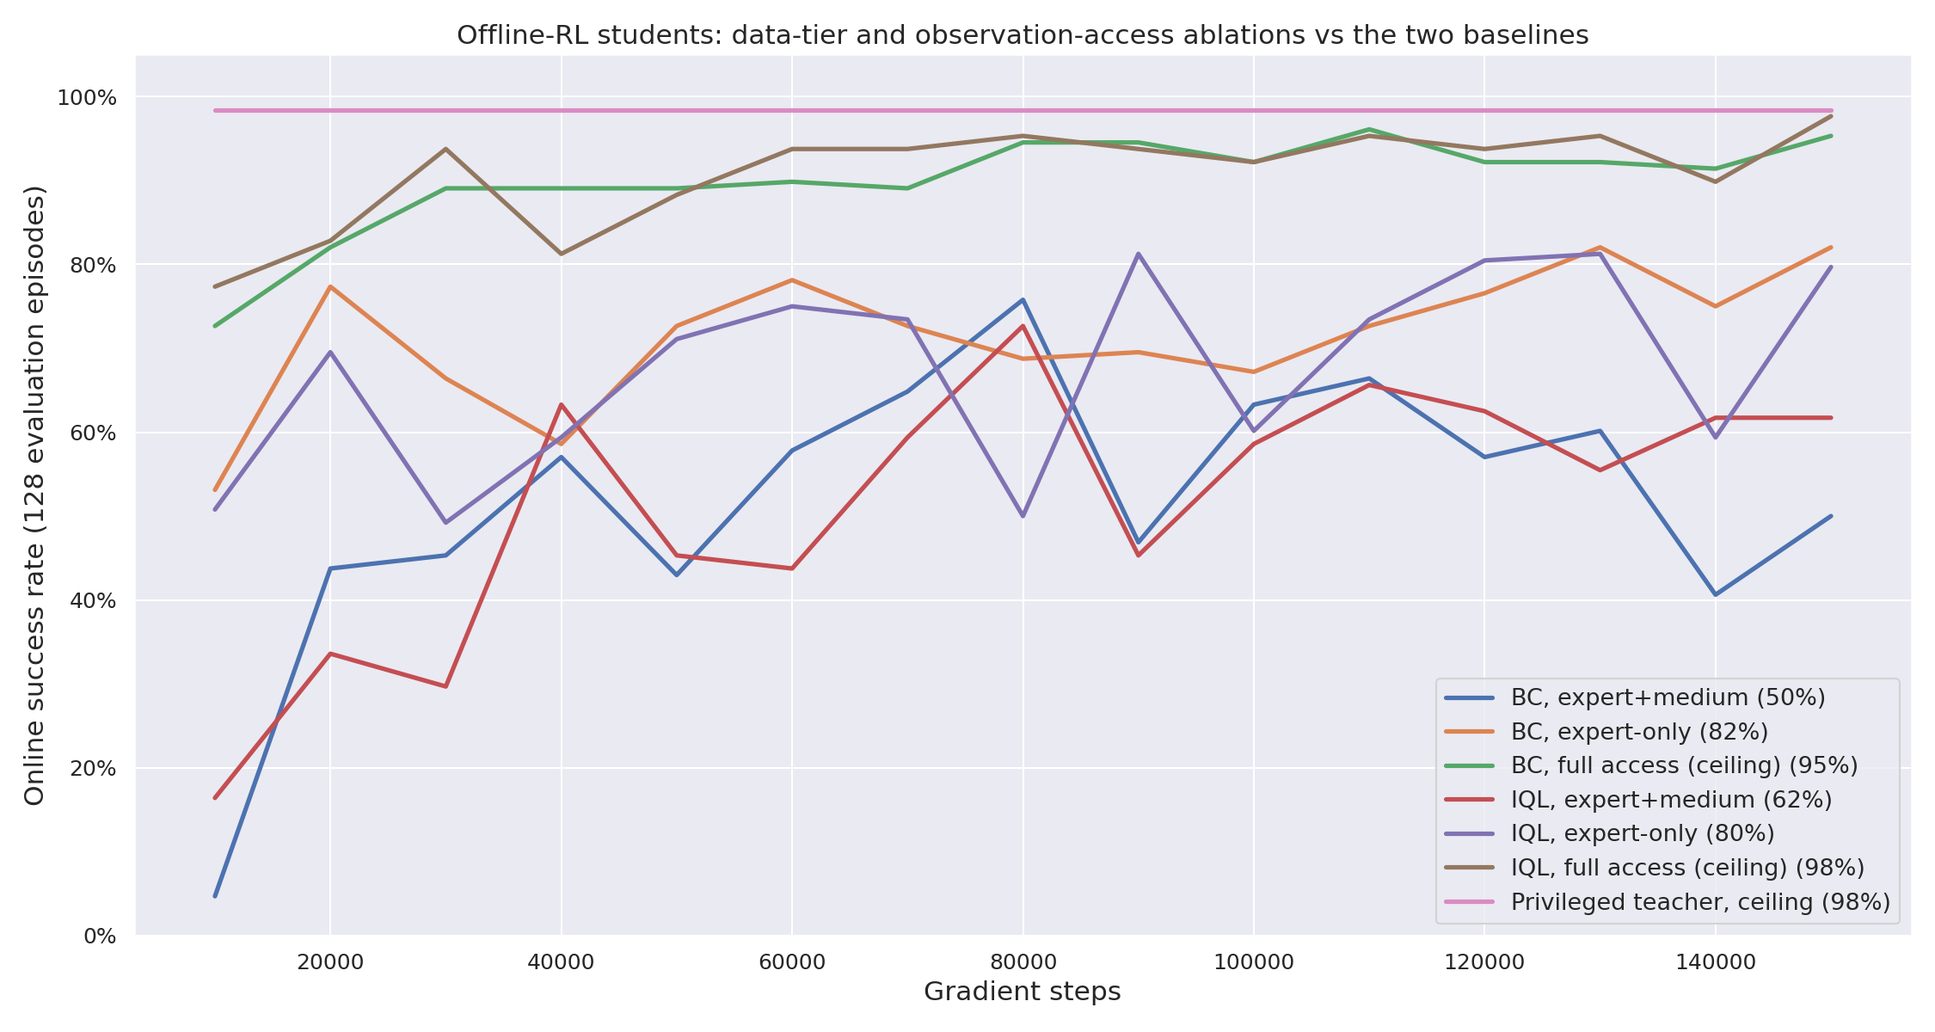
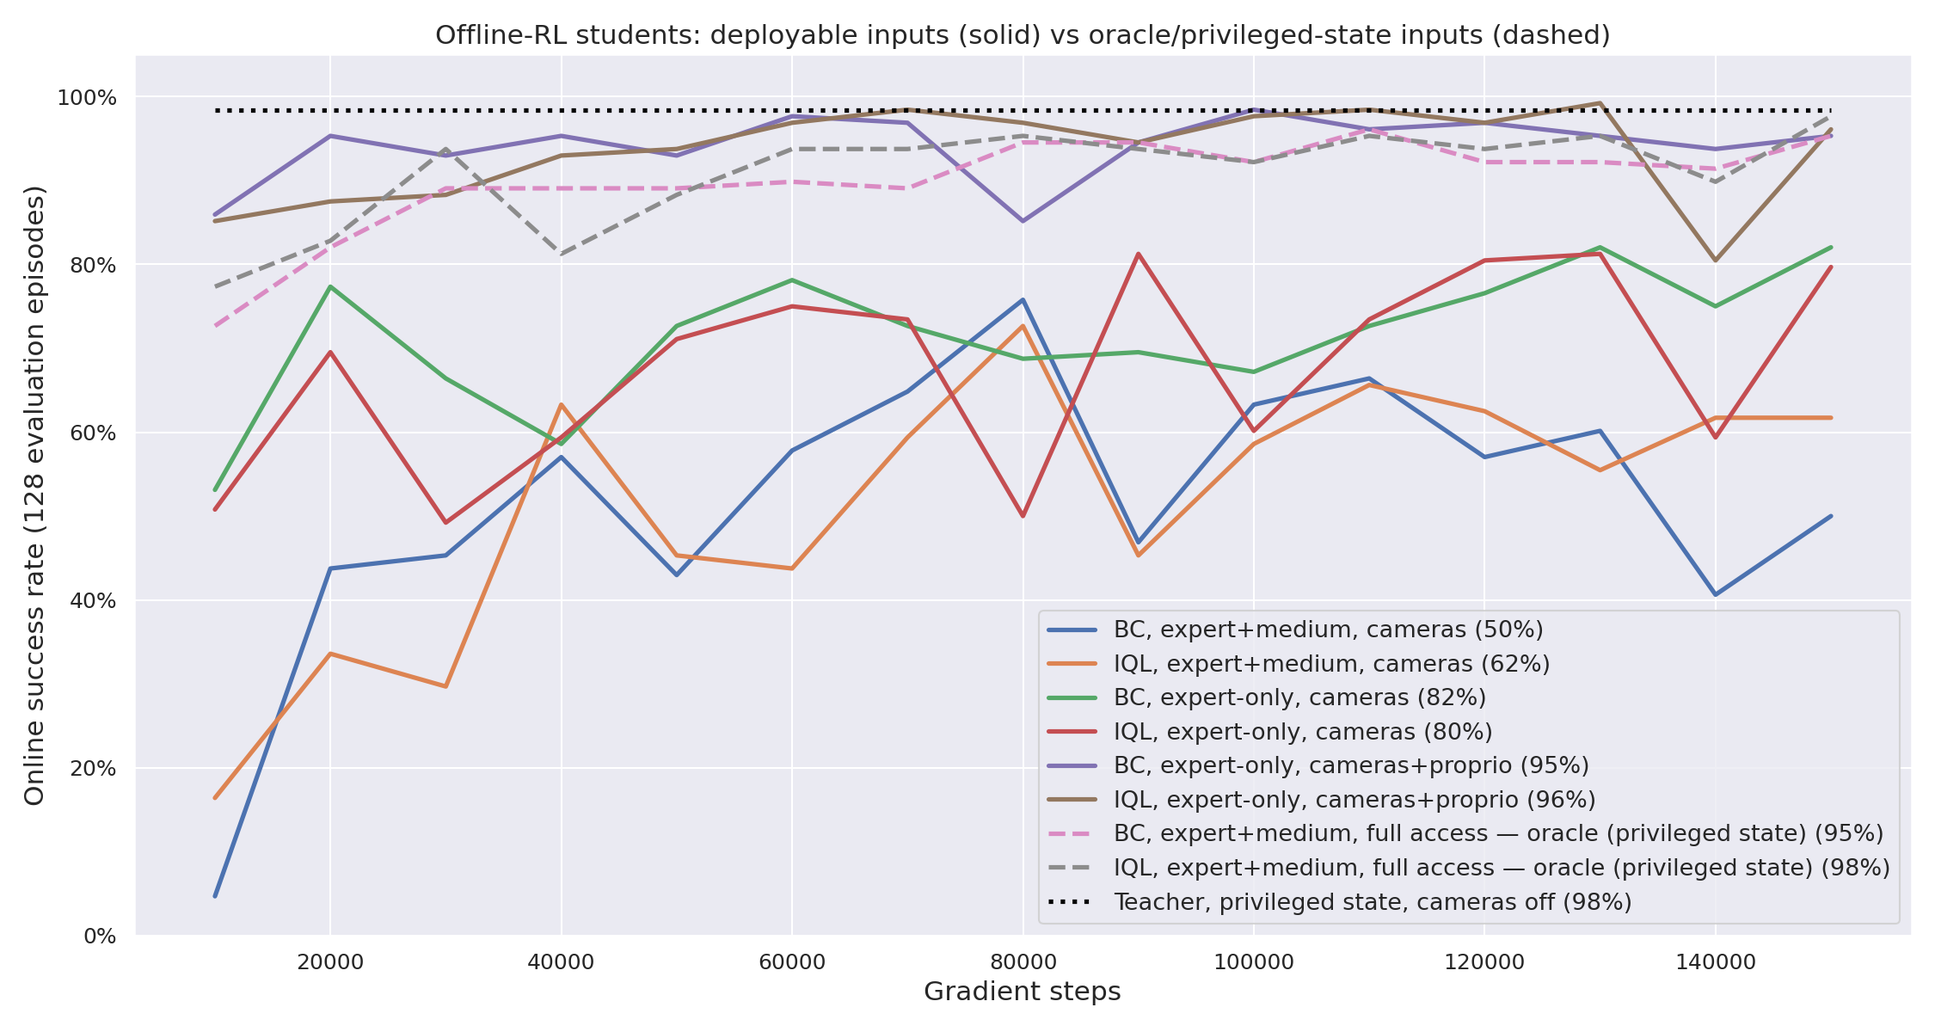
docs(offline): deployable cameras+proprio students match the teacher; regroup results as deployable/borderline/oracle
Two new expert-only runs, bc_expert_only_proprio and iql_expert_only_proprio
(network.in_keys = cameras + proprio, no privileged/belt state), give the
first deployable offline-RL students: BC best 0.984 @ 100k (exact match to
the teacher's 0.984), IQL best 0.992 @ 130k (slightly above it). Restructures
the README's results into deployable / borderline (not run; belt could come
from a real encoder) / oracle-not-deployable groups, explicitly marks the two
full-access runs as containing simulator-only privileged state and excludes
them from algorithm comparisons, and adds a headline decomposing the
remaining gap: proprioception alone (on expert-only data) closes as much of
the camera-only gap as the oracle's full privileged-state input did (on
expert+medium data), so proprioception -- not the food/bowl pose -- explains
most of the observation bottleneck. Regenerates success_rate_all.png with
deployable runs solid, oracle runs dashed, teacher dotted; copied to
~/Pictures/food-robot/.

diff --git a/docs/experiments/offline_rl/plot_curves.py b/docs/experiments/offline_rl/plot_curves.py
@@ -1,7 +1,12 @@
-"""Plot online success-rate curves for the stage-2.1 baselines + ablations (see the ablations report).
+"""Plot online success-rate curves for the stage-2.1 students: deployable inputs (cameras only;
+cameras+proprio) vs the oracle/upper-bound runs (full teacher-state, simulator-only privileged
+observations) vs the teacher reference line. See ../../../pipeline/2_1_offline_rl/README.md.
 
 Usage (on the Spark, where the artifacts live):
-    python docs/experiments/offline_rl/plot_curves.py <run_dir>=<label> ... [out=<png>]
+    python docs/experiments/offline_rl/plot_curves.py <run_dir>=<label>=<group> ... [out=<png>]
+
+<group> is "deploy" (solid line; real-robot-measurable observations) or "oracle" (dashed line;
+includes simulator-only privileged state, not deployable).
 """
 
 import json
@@ -9,7 +14,6 @@ import sys
 from pathlib import Path
 
 import matplotlib
-import pandas as pd
 import seaborn as sns
 
 matplotlib.use("Agg")
@@ -21,25 +25,32 @@ TEACHER_SUCCESS = 0.984  # pipeline/0_state_teacher evaluation of ppo_teacher_fi
 args = [a for a in sys.argv[1:] if not a.startswith("out=")]
 out = next((a[len("out="):] for a in sys.argv[1:] if a.startswith("out=")), "success_rate.png")
 
-rows = []
+series = []  # (label, group, steps, values)
 for arg in args:
-    run_dir, label = arg.split("=", 1)
+    run_dir, label, group = arg.split("=", 2)
+    assert group in ("deploy", "oracle"), f"unknown group {group!r} (want deploy|oracle)"
     manifest = json.loads((Path(run_dir) / "manifest.json").read_text())
     history = manifest["eval_history"]
     final = history[-1]["success_rate"]
-    for entry in history:
-        rows.append({"Gradient steps": entry["step"], "Success rate": entry["success_rate"],
-                     "Series": f"{label} ({final:.0%})"})
+    steps = [e["step"] for e in history]
+    values = [e["success_rate"] for e in history]
+    tag = " — oracle (privileged state)" if group == "oracle" else ""
+    series.append((f"{label}{tag} ({final:.0%})", group, steps, values))
 
-steps = sorted({r["Gradient steps"] for r in rows})
-for step in steps:
-    rows.append({"Gradient steps": step, "Success rate": TEACHER_SUCCESS,
-                 "Series": f"Privileged teacher, ceiling ({TEACHER_SUCCESS:.0%})"})
+all_steps = sorted({s for _, _, steps, _ in series for s in steps})
 
 sns.set()
 fig, ax = plt.subplots(figsize=(15, 8))
-sns.lineplot(data=pd.DataFrame(rows), x="Gradient steps", y="Success rate", hue="Series", linewidth=2.5, ax=ax)
-ax.set_title("Offline-RL students: data-tier and observation-access ablations vs the two baselines", fontsize=15)
+palette = sns.color_palette(n_colors=len(series))
+for (label, group, steps, values), color in zip(series, palette):
+    ax.plot(steps, values, linewidth=2.5, linestyle="--" if group == "oracle" else "-",
+            label=label, color=color)
+
+ax.plot(all_steps, [TEACHER_SUCCESS] * len(all_steps), linewidth=2.5, linestyle=":", color="black",
+        label=f"Teacher, privileged state, cameras off ({TEACHER_SUCCESS:.0%})")
+
+ax.set_title("Offline-RL students: deployable inputs (solid) vs oracle/privileged-state inputs (dashed)",
+             fontsize=15)
 ax.set_xlabel("Gradient steps", fontsize=15)
 ax.set_ylabel("Online success rate (128 evaluation episodes)", fontsize=15)
 ax.yaxis.set_major_formatter(FuncFormatter(lambda v, _: f"{v:.0%}"))

diff --git a/pipeline/2_1_offline_rl/README.md b/pipeline/2_1_offline_rl/README.md
@@ -61,7 +61,8 @@ precomputed subset *and* its successor row has to be gathered at `+stride`, whic
 
 Useful overrides: `gradient_steps=`, `batch_size=`, `data.shards=[expert_v3c,medium_v3c,noisy_v3c]`,
 `data.proportions=[...]`, `network.in_keys=[[pixels,overview_rgb],[pixels,wrist_rgb],proprio,belt,privileged]`
-(cameras + everything the teacher saw), `eval.interval=`, `eval.num_envs=`, `checkpoint.interval=`, `optim.lr=`,
+(cameras + everything the teacher saw — an oracle input, see Results below; drop `belt,privileged` and keep
+just `proprio` for the deployable cameras+proprio variant), `eval.interval=`, `eval.num_envs=`, `checkpoint.interval=`, `optim.lr=`,
 IQL's `loss.expectile=` / `loss.temperature=` / `loss.gamma=` / `loss.target_tau=`, `run.name=`,
 `logger.backend=null`. Stop a run cleanly (final checkpoint + evaluation) with
 
@@ -83,49 +84,126 @@ W&B project `food_robot`, group `offline_rl`.
 
 ## Results
 
+**Grouping.** Every row below shares the protocol above (150 k steps, batch 256, eval every 10 k over 128
+envs, seed 0, W&B group `offline_rl`). Rows are grouped by whether their *inputs* could exist on a real
+robot at inference time, not by algorithm: `proprio` (`ee_pos`, `ee_quat`, `gripper_pos`, `joint_pos_rel`,
+`joint_vel_rel`, `last_action`) always comes from a real robot's own controller; `privileged` (food pose,
+orientation, grasp flag) exists only in the simulator and has no real-robot equivalent. A run that touches
+`privileged` is an **oracle** measurement of a ceiling, not a candidate to ship.
+
 Teacher (privileged state, cameras off, same evaluation protocol): **0.984** success.
 
-![Online success rate vs gradient steps](../../docs/experiments/pipeline_stage2_1/success_rate.png)
+![Offline-RL students: deployable inputs (solid) vs oracle/privileged-state inputs (dashed)](../../docs/experiments/offline_rl/success_rate_all.png)
 
-| Algorithm | Run | Steps | Best | Final | Mean of last 5 evals | Wall clock | W&B |
-|---|---|---|---|---|---|---|---|
-| BC | `students/bc_expert_medium_v1` | 150 k | 0.758 @ 80 k | 0.500 | **0.548** | 0.64 h | [xy467x3h](https://wandb.ai/sebastian-dittert/food_robot/runs/xy467x3h) |
-| IQL | `students/iql_expert_medium_v1` | 150 k | 0.727 @ 80 k | 0.617 | **0.614** | 1.84 h | [597r6u3q](https://wandb.ai/sebastian-dittert/food_robot/runs/597r6u3q) |
-| CQL | *planned* | | | | | | |
-| TD3+BC | *planned* | | | | | | |
+### Deployable — cameras only; cameras + proprioception
 
-Success rate per evaluation (128 episodes each, so one episode is 0.8 points and the binomial standard error
-around 0.6 is about 0.043):
+| Algorithm | Run | Inputs | Data | Best | Final | Mean of last 5 evals | Wall clock | W&B |
+|---|---|---|---|---|---|---|---|---|
+| BC | `students/bc_expert_medium_v1` | cameras | expert+medium | 0.758 @ 80 k | 0.500 | 0.548 | 0.64 h | [xy467x3h](https://wandb.ai/sebastian-dittert/food_robot/runs/xy467x3h) |
+| IQL | `students/iql_expert_medium_v1` | cameras | expert+medium | 0.727 @ 80 k | 0.617 | 0.614 | 1.84 h | [597r6u3q](https://wandb.ai/sebastian-dittert/food_robot/runs/597r6u3q) |
+| BC | `students/bc_expert_only` | cameras | expert-only | 0.820 @ 130 k | 0.820 | 0.777 | 0.52 h | [wj4kg3hy](https://wandb.ai/sebastian-dittert/food_robot/runs/wj4kg3hy) |
+| IQL | `students/iql_expert_only` | cameras | expert-only | 0.813 @ 90 k | 0.797 | 0.748 | 1.82 h | [d2ia8nor](https://wandb.ai/sebastian-dittert/food_robot/runs/d2ia8nor) |
+| BC | `students/bc_expert_only_proprio` | cameras+proprio | expert-only | **0.984 @ 100 k** | 0.953 | **0.955** | 0.58 h | [29ti5hv2](https://wandb.ai/sebastian-dittert/food_robot/runs/29ti5hv2) |
+| IQL | `students/iql_expert_only_proprio` | cameras+proprio | expert-only | **0.992 @ 130 k** | 0.961 | 0.942 | 1.83 h | [eu7d42wg](https://wandb.ai/sebastian-dittert/food_robot/runs/eu7d42wg) |
+| CQL | *planned* | | | | | | | |
+| TD3+BC | *planned* | | | | | | | |
+
+Success rate per evaluation, 128 episodes each (binomial standard error around 0.6 is about 0.043 — the
+`±0.04` referenced throughout this file):
 
 | Gradient steps (k) | 10 | 20 | 30 | 40 | 50 | 60 | 70 | 80 | 90 | 100 | 110 | 120 | 130 | 140 | 150 |
 |---|---|---|---|---|---|---|---|---|---|---|---|---|---|---|---|
-| BC | .05 | .44 | .45 | .57 | .43 | .58 | .65 | **.76** | .47 | .63 | .66 | .57 | .60 | .41 | .50 |
-| IQL | .16 | .34 | .30 | .63 | .45 | .44 | .59 | **.73** | .45 | .59 | .66 | .63 | .55 | .62 | .62 |
+| BC, cameras, expert+medium | .05 | .44 | .45 | .57 | .43 | .58 | .65 | **.76** | .47 | .63 | .66 | .57 | .60 | .41 | .50 |
+| IQL, cameras, expert+medium | .16 | .34 | .30 | .63 | .45 | .44 | .59 | **.73** | .45 | .59 | .66 | .63 | .55 | .62 | .62 |
+| BC, cameras+proprio, expert-only | .86 | .95 | .93 | .95 | .93 | .98 | .97 | .85 | .95 | **.98** | .96 | .97 | .95 | .94 | .95 |
+| IQL, cameras+proprio, expert-only | .85 | .88 | .88 | .93 | .94 | .97 | **.98** | .97 | .95 | .98 | .98 | .97 | **.99** | .81 | .96 |
 
-**Reading it.** Both curves climb fast to ~0.45 by 30-40 k and then oscillate in a 0.4-0.76 band with no
-further trend — flat from roughly 60 k on, so the 150 k budget is already past the point of return. The
-swings are much larger than evaluation noise (±0.04), so they are real policy changes from step to step, not
-sampling error: with a state-independent scale that has collapsed (BC's mean scale falls from 0.98 to ~0.12
-by 10 k steps), a small drift in the mean action changes the grasp outcome on a large share of episodes.
-The two algorithms are within noise of each other on the best checkpoint (0.76 vs 0.73), but IQL is the more
-stable of the two late in training (last-five mean 0.61 vs 0.55, and BC's last three evaluations are its
-worst since 30 k). A camera-only student reaches roughly **three quarters of the teacher's 0.984 at its best
-checkpoint and about 60% on average**, which is the cost of removing proprioception and privileged state.
+**Reading the original two baselines (cameras only, expert+medium).** Both curves climb fast to ~0.45 by
+30-40 k and then oscillate in a 0.4-0.76 band with no further trend — flat from roughly 60 k on, so the
+150 k budget is already past the point of return. The swings are much larger than evaluation noise (±0.04),
+so they are real policy changes from step to step, not sampling error: with a state-independent scale that
+has collapsed (BC's mean scale falls from 0.98 to ~0.12 by 10 k steps), a small drift in the mean action
+changes the grasp outcome on a large share of episodes. The two algorithms are within noise of each other on
+the best checkpoint (0.76 vs 0.73), but IQL is the more stable of the two late in training (last-five mean
+0.61 vs 0.55, and BC's last three evaluations are its worst since 30 k). A camera-only student on this data
+tier reaches roughly **three quarters of the teacher's 0.984 at its best checkpoint and about 60% on
+average**, which is the cost of removing proprioception (and, in that ablation, privileged state too — see
+below for separating the two).
+
+**Reading the cameras+proprio runs.** Both land in a tight 0.81-0.99 band from 10 k on — far tighter than
+the cameras-only runs' 0.05-0.76 swing — and both cross the teacher's 0.984 at least once (BC at 100 k, IQL
+at 70 k, 110 k and 130 k). IQL's one bad point (0.805 @ 140 k) is a single-step dip, not a trend: its
+surrounding evaluations are 0.992 and 0.961. Proprioception does not just raise the ceiling, it removes most
+of the camera-only oscillation — plausible, since the student no longer has to infer joint/gripper state
+from the wrist camera before it can even attempt the grasp.
 
 **What to try next**, in the order the evidence suggests: pick checkpoints by evaluation rather than by step
-(the best checkpoint beats the final one by 15-25 points in both runs); average several evaluations per point
-or use more evaluation envs so the selection is not chasing noise; add the `noisy_v3c` tier for state
-coverage; and give the actor a learned, state-dependent scale so it can stay stochastic where the data is
-ambiguous. CQL and TD3+BC come next and inherit this protocol unchanged.
+(the best checkpoint beats the final one by several points in most runs here); average several evaluations
+per point or use more evaluation envs so the selection is not chasing noise; add the `noisy_v3c` tier for
+state coverage; and give the actor a learned, state-dependent scale so it can stay stochastic where the data
+is ambiguous. CQL and TD3+BC come next and inherit this protocol unchanged — run them with the
+cameras+proprio inputs, since that is now the group worth shipping.
+
+### Borderline — not run, flagged for a future variant
+
+Nothing has been trained in this group yet. `belt` (the bowl's pose on the conveyor) is stored as
+simulator-only state in this dataset, but in a real cell it could plausibly come from a belt encoder or a
+fixed overhead camera rather than from privileged simulator state. `cameras + proprio + belt` would
+therefore be a legitimate deployable variant to try next — distinct from `privileged` (food pose,
+orientation, grasp flag), which has no real-robot equivalent and stays in the oracle group below.
+
+### Oracle / upper bound — not deployable (contains simulator-only `privileged` state)
+
+| Algorithm | Run | Inputs | Data | Best | Final | Mean of last 5 evals | Wall clock | W&B |
+|---|---|---|---|---|---|---|---|---|
+| BC | `students/bc_full_access` | pixels+proprio+belt+privileged | expert+medium | 0.961 @ 110 k | 0.953 | 0.934 | 0.78 h | [nyl05r0b](https://wandb.ai/sebastian-dittert/food_robot/runs/nyl05r0b) |
+| IQL | `students/iql_full_access` | pixels+proprio+belt+privileged | expert+medium | 0.977 @ 150 k | 0.977 | 0.944 | 2.04 h | [qg07vj09](https://wandb.ai/sebastian-dittert/food_robot/runs/qg07vj09) |
+
+These two runs include `privileged`, which only exists in the simulator; no real deployment has access to
+it. **They are excluded from any algorithm or observation comparison claim about deployable policies.** They
+exist only to measure the ceiling this dataset supports — how much of the camera-only gap is an
+observation-access problem at all — not as candidates to ship; see the observation-access ablation below for
+how they were produced.
+
+## Headline: how much of the gap to the teacher is closed, and by what
+
+The best **deployable** student, `iql_expert_only_proprio` (cameras+proprio, expert-only data), reaches
+**0.992 at its best checkpoint — slightly above the teacher's own 0.984** — and `bc_expert_only_proprio`
+reaches **0.984**, an exact match. On the more conservative final-checkpoint and last-5-mean metrics both
+land at 0.94-0.96, a few points under the teacher, which given the ±0.15 step-to-step swings this protocol
+already shows (see above) is noise, not a systematic shortfall.
+
+Decomposing the two moves that closed the original camera-only gap:
+
+* **cameras-only → cameras+proprio**, data held fixed at expert-only (the best tier — see the data-quality
+  ablation below): BC's best checkpoint goes 0.820 → 0.984, closing **100%** of its 0.164-point gap to the
+  teacher; IQL's goes 0.813 → 0.992, closing its 0.171-point gap **and then overshooting by 0.008**. Adding
+  only what a real robot's own controller already knows — joint, gripper and end-effector state, nothing
+  simulator-only — is enough on its own to match the privileged-state teacher.
+* **the oracle's privileged state** (cameras+proprio+belt+privileged vs. cameras-only, on expert+medium
+  data, from the observation-access ablation below): closes 90-98% of the camera-only gap (0.758→0.961 for
+  BC, 0.727→0.977 for IQL).
+
+Read side by side, the deployable cameras+proprio runs (expert-only data, *no* privileged state) match or
+beat the oracle full-access runs (expert+medium data, *with* privileged state) on every metric: 0.984/0.992
+vs. 0.961/0.977 best-checkpoint. That is not a perfectly controlled comparison — the two groups sit on
+different data tiers, and the ablation below shows expert-only data is worth several points on its own — but
+it is enough to say that **proprioception, not the simulator-only food/bowl pose, is doing essentially all of
+the work of closing the gap**. Once the student can feel where its own joints and gripper are, seeing the
+food's exact pose adds little to nothing on top. The teacher's 0.984 is not, in practice, out of reach for a
+policy that only ever sees what a real robot controller could give it.
 
 ## Ablations: data quality and observation access
 
-Two ablations on top of the two baselines above, same protocol (150 k steps, batch 256, eval every 10 k over
-128 envs, same seed): **data quality** — cameras-only inputs, `expert_v3c` alone (1 M frames) instead of
-expert+medium — and **observation access** — expert+medium data, but `network.in_keys` extended to
-`pixels + proprio + belt + privileged`, i.e. everything the teacher itself saw. The second one is a ceiling
-this dataset supports, not a deployable policy (a real deployment has no privileged state), so read it as
-"how much of the gap is the camera bottleneck" rather than as a candidate for shipping.
+Two earlier ablations on top of the two cameras-only baselines above, same protocol (150 k steps, batch 256,
+eval every 10 k over 128 envs, same seed): **data quality** — cameras-only inputs, `expert_v3c` alone (1 M
+frames) instead of expert+medium — and **observation access** — expert+medium data, but `network.in_keys`
+extended to `pixels + proprio + belt + privileged`, i.e. everything the teacher itself saw. The second one
+produced the two oracle rows above: a ceiling this dataset supports, not a deployable policy (a real
+deployment has no privileged state), so read it as "how much of the gap is the camera bottleneck" rather
+than as a candidate for shipping. The cameras+proprio deployable runs in the Results section above were run
+afterwards, once it was clear the gap should be attacked with deployable inputs first; see the Headline above
+for how the two ablations and the deployable runs compare.
 
 ### Data quality: does the medium tier help?
 
@@ -166,26 +244,28 @@ algorithm.
 Same `expert_v3c` + `medium_v3c` data as the baselines, but `network.in_keys` extended from cameras-only to
 `[[pixels,overview_rgb],[pixels,wrist_rgb],proprio,belt,privileged]` — everything the teacher itself saw, via
 `pickplace.keys.expand_in_keys`. **This is a ceiling, not a deployable policy**: a real deployment has no
-privileged food/bowl pose, so treat these two rows as measuring the observation bottleneck, not as a
-candidate to ship.
+privileged food/bowl pose, so treat these two rows (the "oracle / upper bound" group above) as measuring the
+observation bottleneck, not as a candidate to ship.
 
 | Algorithm | Run | Best | Final | Mean of last 5 evals | Wall clock | W&B |
 |---|---|---|---|---|---|---|
 | BC | `students/bc_full_access` (pixels+proprio+belt+privileged) | **0.961 @ 110 k** | 0.953 | 0.934 | 0.78 h | [nyl05r0b](https://wandb.ai/sebastian-dittert/food_robot/runs/nyl05r0b) |
 | IQL | `students/iql_full_access` (pixels+proprio+belt+privileged) | **0.977 @ 150 k** | 0.977 | 0.944 | 2.04 h | [qg07vj09](https://wandb.ai/sebastian-dittert/food_robot/runs/qg07vj09) |
 
-![All six runs vs the teacher](../../docs/experiments/offline_rl/success_rate_all.png)
+See the plot in the Results section above (now eight runs: the two oracle rows dashed, everything else
+solid).
 
 **Full observation access nearly closes the gap to the teacher, on the same data the cameras-only runs used.**
 BC's best checkpoint goes from 0.758 (cameras only) to 0.961 (full access) against a teacher of 0.984 — that
 closes (0.984−0.758) − (0.984−0.961) = 0.203 of the original 0.226-point gap, i.e. **90%** of it. IQL closes
 even more: 0.727 → 0.977 closes (0.257 − 0.007)/0.257 = **97%** of its gap. On final-checkpoint numbers the
-picture is the same or stronger (BC closes 94% of its gap, IQL 98%). **So the large majority of the gap
-between a camera-only offline-RL student and the privileged-state teacher is the observation bottleneck, not
-the offline-RL algorithm or the offline-vs-online training regime** — plain BC with the teacher's own inputs
-gets within 2-3 points of the teacher, and IQL gets within one point, using nothing but a fixed dataset and
-150 k gradient steps. Offline RL is not the limiting factor here; not being able to see the robot's own joint
-state and the food/bowl pose is.
+picture is the same or stronger (BC closes 94% of its gap, IQL 98%). **So most of the gap between a
+camera-only offline-RL student and the privileged-state teacher was an observation bottleneck, not the
+offline-RL algorithm or the offline-vs-online training regime.** At the time this ablation ran, that was the
+whole story; the cameras+proprio deployable runs added afterwards (Results above) go further and show that
+`proprio` alone — no simulator-only state at all — closes the *rest* of what full access left open, which
+narrows "the observation bottleneck" specifically to proprioception rather than to privileged state. See the
+Headline section above for that comparison.
 
 **Data quality still shows through even at full access.** IQL, full-access (expert+medium) reaches 0.977 vs
 BC, full-access (expert+medium) 0.961 — both close to the teacher, but IQL is again the steadier of the two
